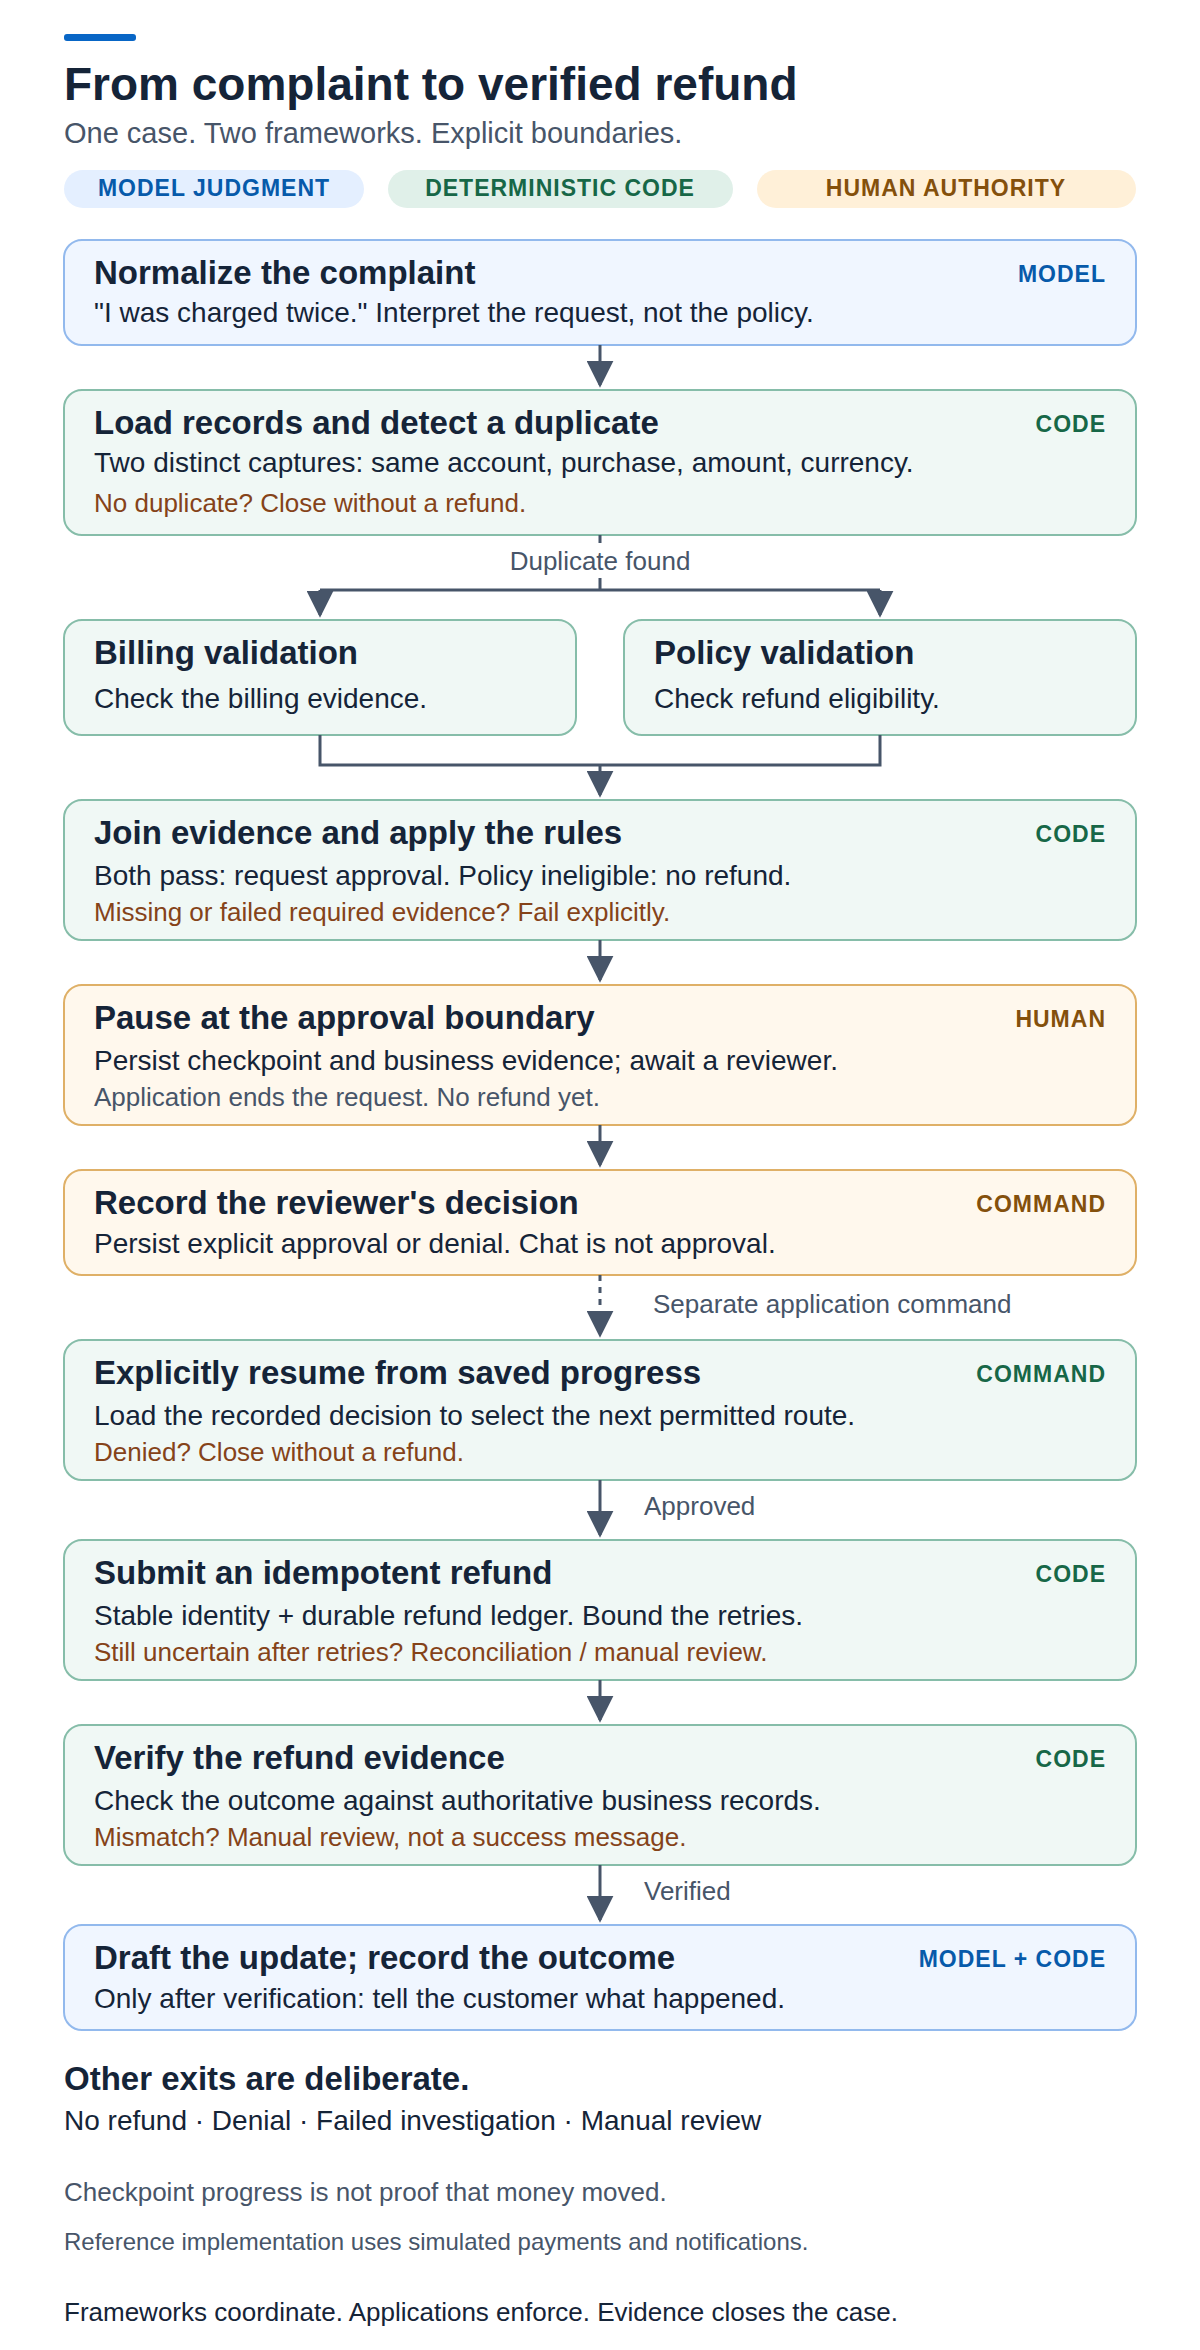
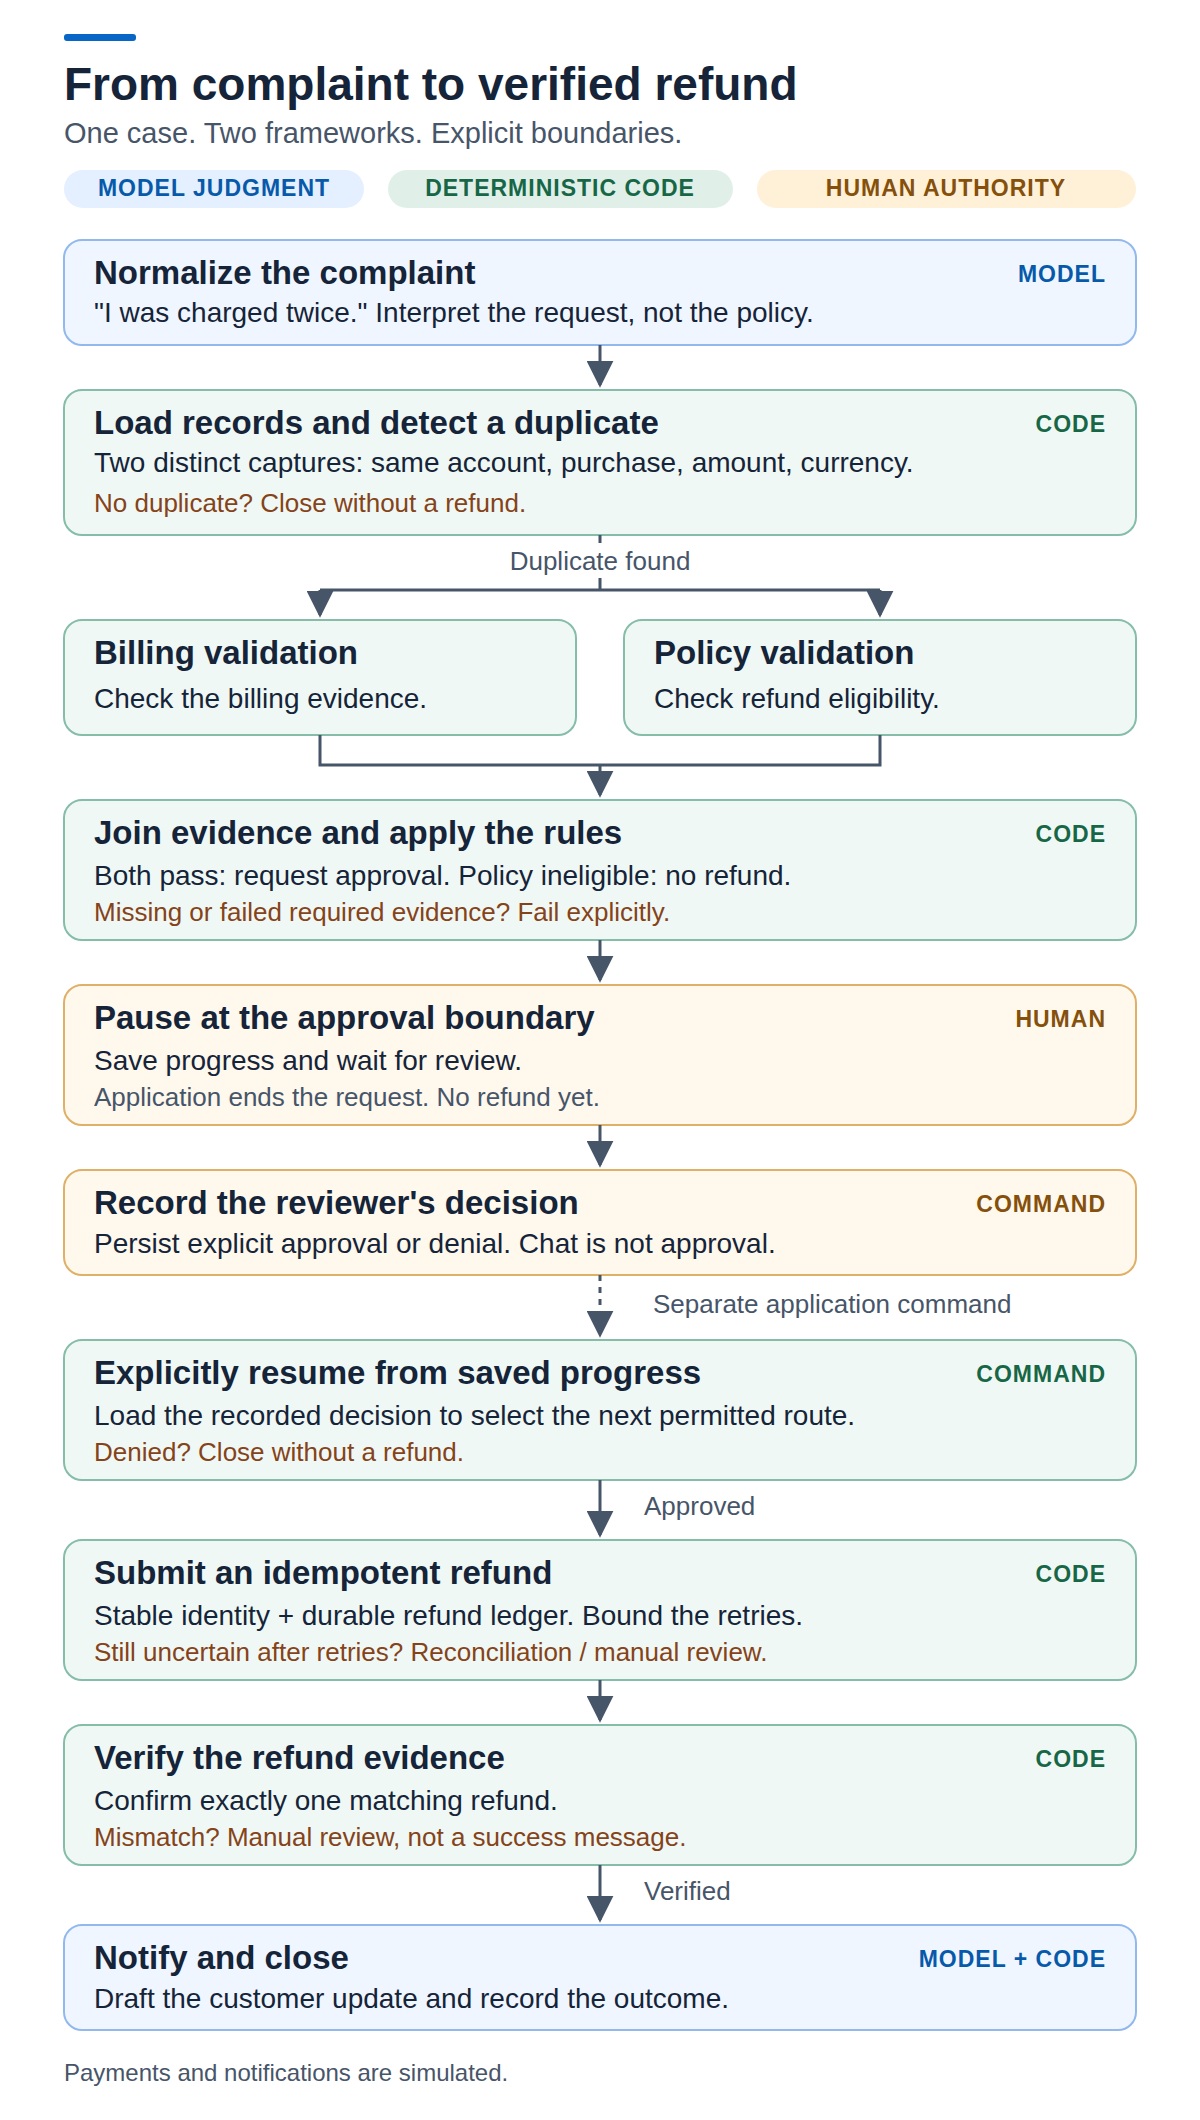
docs(linkedin): clarify workflow narrative and simplify diagram
Add explicit investigation, approval, and refund flow summaries; explain uncertain payment responses and runtime infrastructure; reference MAF orchestration patterns. Simplify the diagram labels and footer and regenerate its PNG.

diff --git a/docs/linkedin/02-agent-frameworks.md b/docs/linkedin/02-agent-frameworks.md
@@ -1,7 +1,7 @@
 # Agent Frameworks: The Model Can Answer. Can the Workflow Finish?
 
-*Part 2 of From Models to Harnesses. LinkedIn draft, adapted from the repository's
-technical chapter.*
+_Part 2 of From Models to Harnesses. LinkedIn draft, adapted from the repository's
+technical chapter._
 
 ## Beyond smarter models: systems that finish the job
 
@@ -9,7 +9,7 @@ technical chapter.*
 
 A language model can apologize, explain possible causes, and draft a reassuring
 reply. But the customer is not asking for better wording. They want the charges
-investigated and, if a refund is justified, their money returned. Once.
+investigated and, if a refund is justified, the correct amount returned.
 
 Between the complaint and that outcome sit billing records, policy, human
 approval, a payment operation that might time out, and evidence that the refund
@@ -21,7 +21,8 @@ In [Part 1](https://www.linkedin.com/pulse/from-models-harnesses-how-ai-agents-l
 we separated three responsibilities:
 
 > Framework = how work is coordinated. Harness = what surrounds the agent so it
-> can finish and verify the work. Runtime = where that work executes and survives.
+> can finish and verify the work. Runtime infrastructure = the hosting, workers,
+> and storage that sustain execution.
 
 Let's follow one case through two independent implementations, with real code.
 
@@ -34,12 +35,11 @@ Our case introduces harder questions. Which checks can run together? What happen
 if only one passes? Where does the system stop for approval? What survives a
 process restart? Is retrying a timed-out refund safe?
 
-A framework gives the application structures for expressing those answers:
-steps, routes, state, joins, pauses, and recovery boundaries. It coordinates code,
-tools, and model calls rather than leaving every transition implicit.
+A framework helps coordinate the work, track progress, and define what can
+happen next.
 
-**Predictable orchestration does not make a model deterministic. It makes the
-permitted actions and transitions explicit.**
+**The model's answers may vary. The workflow defines which actions are allowed,
+and when.**
 
 Not every automation needs an agent framework. A conventional service or workflow
 engine may already fit. The value appears when model calls, tool execution,
@@ -51,16 +51,16 @@ custom plumbing.
 Our investigation needs a small vocabulary. Each **primitive** solves a practical
 coordination problem:
 
-| Primitive | Its job in our case |
-|---|---|
-| **Workflow / graph** | Describe the allowed journey from complaint to outcome. |
-| **Node / executor** | Perform one task: interpret, check, submit, or verify. |
-| **Edge / route** | Choose the next permitted step from the evidence. |
-| **State** | Carry the case's evidence, status, and decisions. |
+| Primitive            | Its job in our case                                       |
+| -------------------- | --------------------------------------------------------- |
+| **Workflow / graph** | Describe the allowed journey from complaint to outcome.   |
+| **Node / executor**  | Perform one task: interpret, check, submit, or verify.    |
+| **Edge / route**     | Choose the next permitted step from the evidence.         |
+| **State**            | Carry the case's evidence, status, and decisions.         |
 | **Fan-out / fan-in** | Run independent checks together, then join their results. |
-| **Checkpoint** | Save the execution state needed for continuation. |
-| **Pause / resume** | Stop for external input and continue later. |
-| **Failure handling** | Bound attempts and define failure or review routes. |
+| **Checkpoint**       | Save the execution state needed for continuation.         |
+| **Pause / resume**   | Stop for external input and continue later.               |
+| **Failure handling** | Bound attempts and define failure or review routes.       |
 
 State carries the case's progress and evidence. **Context** is the selected
 information the model sees for a particular call—for example, complaint text or
@@ -78,12 +78,14 @@ Framework (MAF) and LangGraph:
 
 ![Double-charge workflow: model interpretation, deterministic duplicate detection, parallel billing and policy checks, then an approval pause. This application records the decision and resumes through separate commands. An approved refund uses a stable idempotency identity and is verified before notification. Policy ineligibility closes without a refund; unresolved payment outcomes require manual review rather than a failed-payment assumption.](assets/02-agent-frameworks-flow.png)
 
-*One case, several possible outcomes. Payments and notifications are simulated in
-this teaching repository; the authority and verification boundaries are deliberate.*
+_One case, several possible outcomes._
 
 ## Follow the case: from complaint to verified outcome
 
 ### 1. Investigate and bring the evidence together
+
+> Open case → interpret complaint → check charges → run billing and policy checks
+> → join results
 
 An explicit start command opens the case. A model interprets the complaint;
 code investigates the billing records.
@@ -128,6 +130,9 @@ requesting approval.**
 
 ### 2. Eligibility is not permission
 
+> Request approval → save progress and pause → record reviewer decision
+> → explicitly resume → proceed or close denied
+
 The checks pass. The refund is eligible—but nobody has authorized it yet.
 
 The workflow pauses for a reviewer. Neither the customer's request nor the
@@ -142,30 +147,34 @@ The application can end the request and resume the workflow later. In our design
 one command records the decision; a separate command resumes the workflow.
 Approval allows the refund path to continue. Denial closes it without a refund.
 
-LangGraph restarts the interrupted node on resume, so code before the pause
-must be safe to repeat.
+Recovery can repeat work, so actions with side effects need safeguards against
+duplication.
 
 PostgreSQL records the business evidence and decisions; framework checkpoints
 save execution progress. **A checkpoint is not proof that money moved.**
 
 ### 3. Refund once. Verify before closing.
 
+> Submit refund → confirmation unavailable? Check existing result
+> → retry if needed, within limits → verify or seek review
+
 After approval and resume, the workflow submits the refund with a stable
 **idempotency key**—an identifier reused for the same refund request across attempts.
 
-But what if the response is lost? The application checks for an existing refund
-and retries only within its defined limits, using the same key. If the outcome
-remains uncertain, the case goes to **manual review** for reconciliation.
-A missing response does not prove the payment failed.
+In a real payment integration, the provider might process the refund but a network
+timeout prevents its confirmation from reaching the application. **The communication
+failed; the refund may still have succeeded.** Our simulator represents that uncertainty.
 
-Next, the workflow verifies that the evidence shows one matching refund.
-A mismatch goes to manual review, not a success message.
+The application checks its refund ledger and reuses an existing result if one
+is found. Otherwise, it retries within a defined limit, using the same
+idempotency key.
 
-Only after verification does the model draft the customer update and the
-application record the outcome.
+**One matching refund verified → notify and close. Unresolved uncertainty or
+mismatched evidence → manual review.** The model drafts the customer update only
+after verification; manual-review cases still need reconciliation.
 
-Payments and notifications are simulated here. A real payment system must enforce
-the idempotency contract and supply authoritative refund evidence.
+Payments and notifications are simulated. A real provider must enforce the
+idempotency contract and supply authoritative refund evidence.
 
 **Framework retries are not an exactly-once guarantee. The application still
 needs idempotency and verification.**
@@ -175,16 +184,17 @@ needs idempotency and verification.**
 Our case used several orchestration patterns—without needing a team of
 autonomous agents.
 
-| Pattern | Where we used it |
-|---|---|
-| **Sequential** | Submit, verify, then notify. |
-| **Parallel** | Check billing and policy independently. |
-| **Fan-out/fan-in** | Start both checks and join their results. |
-| **Conditional routing** | Continue, close without refund, fail, or seek review. |
-| **Human-in-the-loop** | Pause for approval and resume from the recorded decision. |
+| Pattern                 | Where we used it                                          |
+| ----------------------- | --------------------------------------------------------- |
+| **Sequential**          | Submit, verify, then notify.                              |
+| **Parallel**            | Check billing and policy independently.                   |
+| **Fan-out/fan-in**      | Start both checks and join their results.                 |
+| **Conditional routing** | Continue, close without refund, fail, or seek review.     |
+| **Human-in-the-loop**   | Pause for approval and resume from the recorded decision. |
 
-Other workloads may add specialist handoffs, supervisor-led delegation, or
-bounded review loops—but multiple steps do not automatically require multiple agents.
+For work that benefits from agent teams, MAF provides
+[Sequential, Concurrent, Handoff, Group Chat, and Magentic orchestration](https://learn.microsoft.com/en-us/agent-framework/workflows/orchestrations/).
+Magentic uses a manager agent to coordinate specialists.
 
 ## Agent SDKs and orchestration: choosing the fit
 
@@ -201,9 +211,9 @@ Pick contracts your team can understand when the happy path ends.
 
 ## The usual suspects around the workflow
 
-The workflow needs a runtime and durable storage, alongside the same cross-cutting
-concerns introduced in Part 1. Framework and runtime are responsibilities, not
-necessarily separate products.
+The framework's execution engine runs the graph. Runtime infrastructure supplies
+the hosting, worker processes, and durable storage around it. The application also
+needs the same cross-cutting concerns introduced in Part 1:
 
 - **Experience:** where people review progress and issue approval commands.
 - **Standards:** MCP for tools and data, A2A for agents, and AG-UI for user interfaces.
@@ -223,8 +233,7 @@ and verification—with explicit outcomes when the refund could not proceed.
 
 ## Explore the code
 
-The [public repository](https://github.com/ppenumatsa1/model-to-harness) contains
-both independent implementations. Start with the
+Start with the
 [MAF walkthrough](https://github.com/ppenumatsa1/model-to-harness/blob/8a2ac71dc8afb4b82e2e49bd37d35cf9d3647225/agent-framework/double-charge/maf/README.md)
 or the
 [LangGraph walkthrough](https://github.com/ppenumatsa1/model-to-harness/blob/8a2ac71dc8afb4b82e2e49bd37d35cf9d3647225/agent-framework/double-charge/langgraph/README.md),
